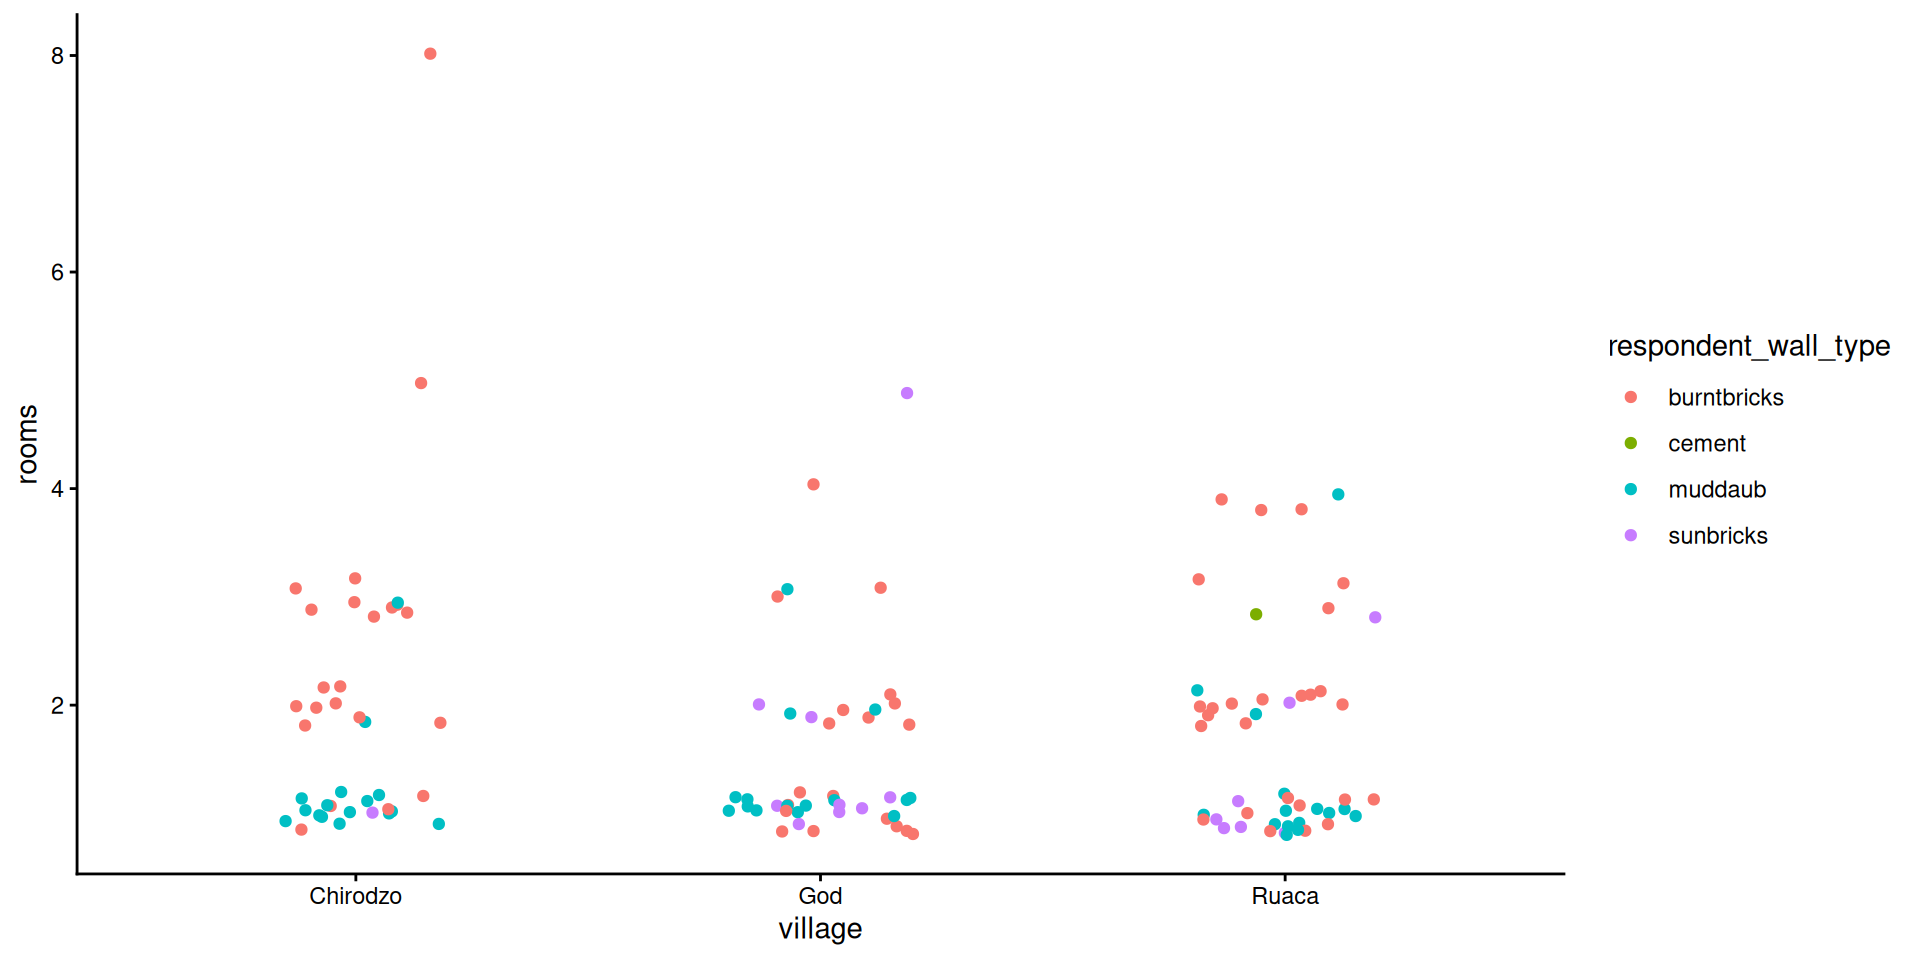
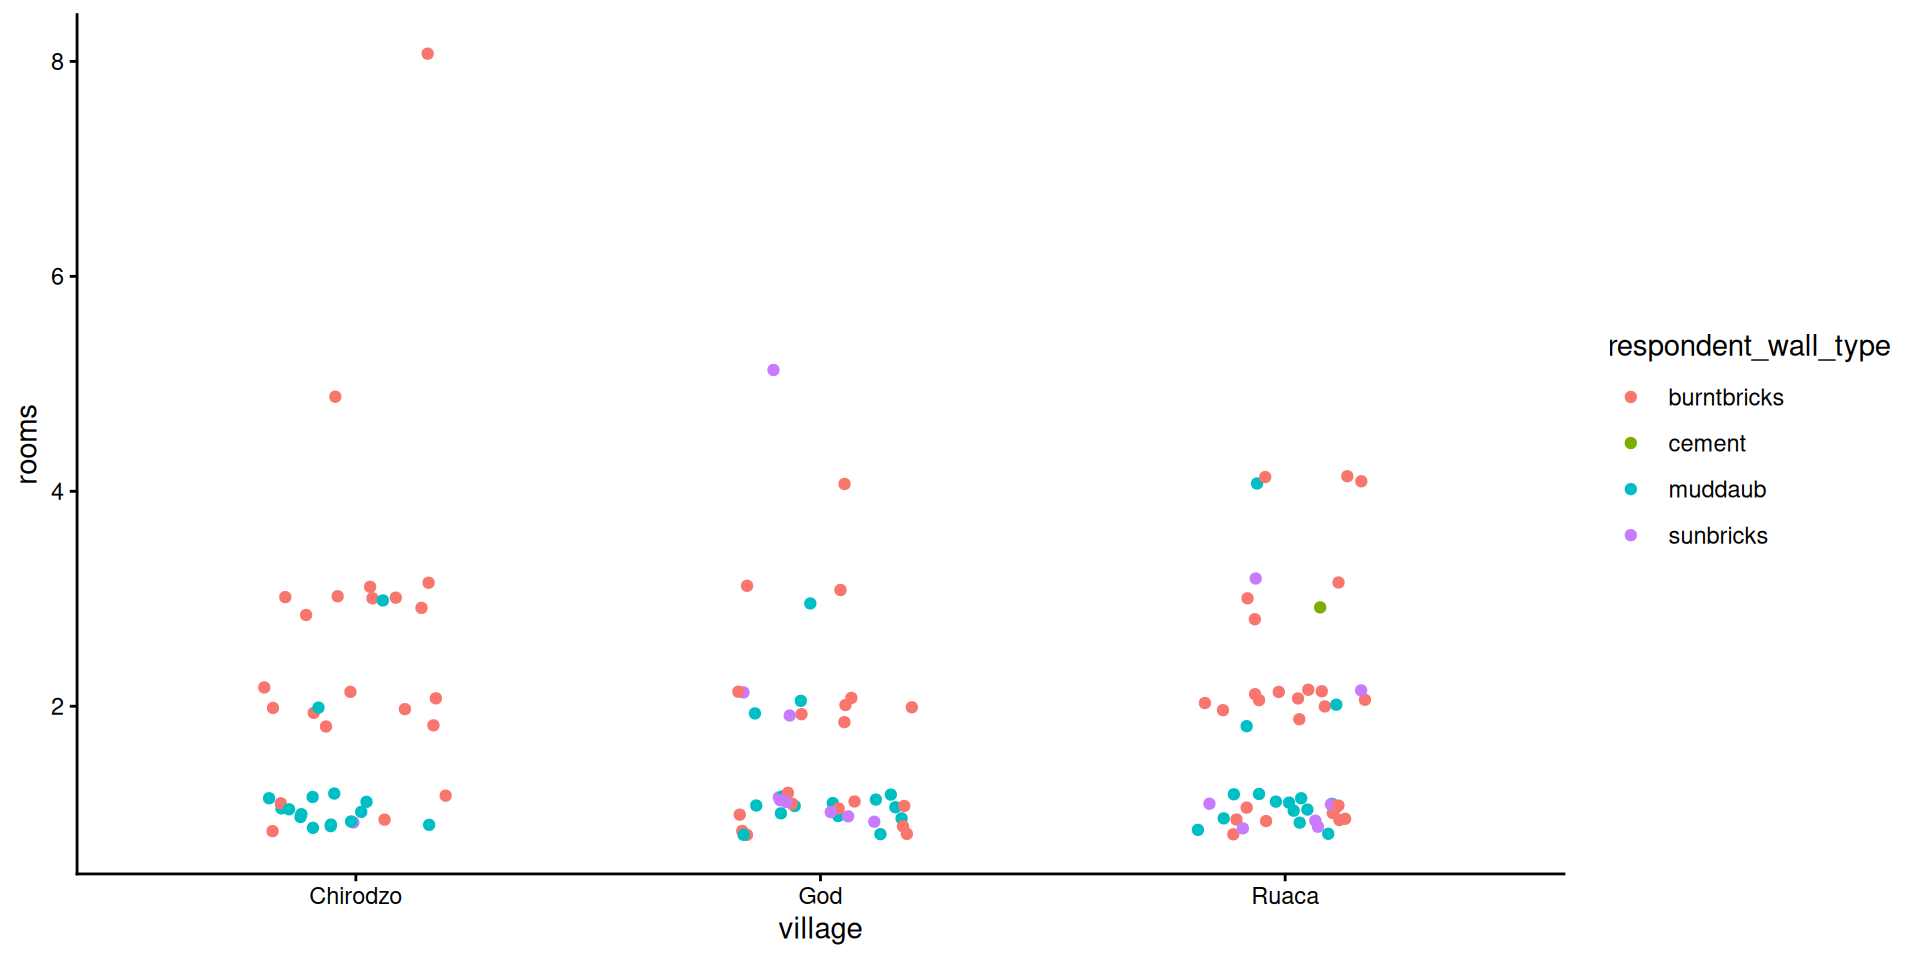
Built site for gh-pages

diff --git a/04_data-viz.html b/04_data-viz.html
@@ -352,7 +352,7 @@
 <p>Create a scatter plot of <code>rooms</code> by <code>village</code> with the <code>respondant_wall_type</code> showing in different colours.</p>
 <p>Does this seem like a good way to display the relationship between these variables?</p>
 <p>What other kinds of plots might you use to show this type of data?</p>
-<p></p><div class="countdown" id="timer_c0bdecb7" data-update-every="1" tabindex="0" style="right:0;bottom:0;"> <div class="countdown-controls"><button class="countdown-bump-down">−</button><button class="countdown-bump-up">+</button></div> <code class="countdown-time"><span class="countdown-digits minutes">06</span><span class="countdown-digits colon">:</span><span class="countdown-digits seconds">00</span></code> </div><p></p>
+<p></p><div class="countdown" id="timer_696ccc04" data-update-every="1" tabindex="0" style="right:0;bottom:0;"> <div class="countdown-controls"><button class="countdown-bump-down">−</button><button class="countdown-bump-up">+</button></div> <code class="countdown-time"><span class="countdown-digits minutes">06</span><span class="countdown-digits colon">:</span><span class="countdown-digits seconds">00</span></code> </div><p></p>
 </section>
 <section id="exercise-1-solution" class="slide level2 inverse smaller">
 <h2>Exercise 1: Solution</h2>
@@ -419,7 +419,7 @@ Figure&nbsp;1: This plot shows the relationship between the variables room and v
 <p>Boxplots are useful summaries, but hide the shape of the distribution. For example, if the distribution is bimodal, we would not see it in a boxplot.</p>
 <p>Replace the box plot with a violin plot<br>
 see <code>geom_violin()</code></p>
-<p></p><div class="countdown" id="timer_15cad90a" data-update-every="1" tabindex="0" style="right:0;bottom:0;"> <div class="countdown-controls"><button class="countdown-bump-down">−</button><button class="countdown-bump-up">+</button></div> <code class="countdown-time"><span class="countdown-digits minutes">04</span><span class="countdown-digits colon">:</span><span class="countdown-digits seconds">00</span></code> </div><p></p>
+<p></p><div class="countdown" id="timer_aacecd26" data-update-every="1" tabindex="0" style="right:0;bottom:0;"> <div class="countdown-controls"><button class="countdown-bump-down">−</button><button class="countdown-bump-up">+</button></div> <code class="countdown-time"><span class="countdown-digits minutes">04</span><span class="countdown-digits colon">:</span><span class="countdown-digits seconds">00</span></code> </div><p></p>
 </section>
 <section id="exercise-2-solution" class="slide level2 inverse">
 <h2>Exercise 2: Solution</h2>
@@ -437,7 +437,7 @@ see <code>geom_violin()</code></p>
 <p>Create a bar plot showing the proportion of respondents in each village who are or are not part of an irrigation association (<code>memb_assoc</code>).</p>
 <p>Include only respondents who answered that question in the calculations and plot.</p>
 <p>Which village had the lowest proportion of respondents in an irrigation association?</p>
-<p></p><div class="countdown" id="timer_2b0e26b3" data-update-every="1" tabindex="0" style="right:0;bottom:0;"> <div class="countdown-controls"><button class="countdown-bump-down">−</button><button class="countdown-bump-up">+</button></div> <code class="countdown-time"><span class="countdown-digits minutes">08</span><span class="countdown-digits colon">:</span><span class="countdown-digits seconds">00</span></code> </div><p></p>
+<p></p><div class="countdown" id="timer_b0bc03f6" data-update-every="1" tabindex="0" style="right:0;bottom:0;"> <div class="countdown-controls"><button class="countdown-bump-down">−</button><button class="countdown-bump-up">+</button></div> <code class="countdown-time"><span class="countdown-digits minutes">08</span><span class="countdown-digits colon">:</span><span class="countdown-digits seconds">00</span></code> </div><p></p>
 </section>
 <section id="exercise-3-1" class="slide level2 inverse smaller" data-auto-animate="true">
 <h2 data-id="quarto-animate-title">Exercise 3</h2>
@@ -445,7 +445,7 @@ see <code>geom_violin()</code></p>
 <p>Create a bar plot showing the proportion of respondents in each village who are or are not part of an irrigation association (<code>memb_assoc</code>).</p>
 <p>Include only respondents who answered that question in the calculations and plot.</p>
 <p>Which village had the lowest proportion of respondents in an irrigation association?</p>
-<p></p><div class="countdown" id="timer_95549582" data-update-every="1" tabindex="0" style="right:0;bottom:0;"> <div class="countdown-controls"><button class="countdown-bump-down">−</button><button class="countdown-bump-up">+</button></div> <code class="countdown-time"><span class="countdown-digits minutes">08</span><span class="countdown-digits colon">:</span><span class="countdown-digits seconds">00</span></code> </div><p></p>
+<p></p><div class="countdown" id="timer_1049e074" data-update-every="1" tabindex="0" style="right:0;bottom:0;"> <div class="countdown-controls"><button class="countdown-bump-down">−</button><button class="countdown-bump-up">+</button></div> <code class="countdown-time"><span class="countdown-digits minutes">08</span><span class="countdown-digits colon">:</span><span class="countdown-digits seconds">00</span></code> </div><p></p>
 <h3 id="hint">Hint</h3>
 <div class="cell">
 <div class="code-copy-outer-scaffold"><div class="sourceCode cell-code" id="cb10"><pre class="sourceCode numberSource r number-lines code-with-copy" data-id="quarto-animate-code"><code class="sourceCode r hljs"><span id="cb10-1" class="hljs-ln-code"><a></a>percent_memb_assoc <span class="ot">&lt;-</span> interviews_plotting <span class="sc">%&gt;%</span></span>
@@ -477,7 +477,7 @@ see <code>geom_violin()</code></p>
 <p>⏰ <strong>4 mins</strong></p>
 <p>Experiment with at least two different themes. Build the previous plot using each of those themes.</p>
 <p>Which do you like best?</p>
-<p></p><div class="countdown" id="timer_009e882c" data-update-every="1" tabindex="0" style="right:0;bottom:0;"> <div class="countdown-controls"><button class="countdown-bump-down">−</button><button class="countdown-bump-up">+</button></div> <code class="countdown-time"><span class="countdown-digits minutes">04</span><span class="countdown-digits colon">:</span><span class="countdown-digits seconds">00</span></code> </div><p></p>
+<p></p><div class="countdown" id="timer_e5d0d628" data-update-every="1" tabindex="0" style="right:0;bottom:0;"> <div class="countdown-controls"><button class="countdown-bump-down">−</button><button class="countdown-bump-up">+</button></div> <code class="countdown-time"><span class="countdown-digits minutes">04</span><span class="countdown-digits colon">:</span><span class="countdown-digits seconds">00</span></code> </div><p></p>
 <div class="fragment">
 <h3 id="hint-1">Hint</h3>
 <div class="columns">

diff --git a/05_quarto.html b/05_quarto.html
@@ -168,7 +168,7 @@
 <p>Play around with the different options in the chunk with the code for the table, and re-Render to see what each option does to the output.</p>
 <p>What happens if you use <code>eval: false</code> and <code>echo: false</code>?</p>
 <p>What is the difference between this and <code>include: false</code>?</p>
-<p></p><div class="countdown" id="timer_001d28ab" data-update-every="1" tabindex="0" style="right:0;bottom:0;"> <div class="countdown-controls"><button class="countdown-bump-down">−</button><button class="countdown-bump-up">+</button></div> <code class="countdown-time"><span class="countdown-digits minutes">04</span><span class="countdown-digits colon">:</span><span class="countdown-digits seconds">00</span></code> </div><p></p>
+<p></p><div class="countdown" id="timer_1d0c904d" data-update-every="1" tabindex="0" style="right:0;bottom:0;"> <div class="countdown-controls"><button class="countdown-bump-down">−</button><button class="countdown-bump-up">+</button></div> <code class="countdown-time"><span class="countdown-digits minutes">04</span><span class="countdown-digits colon">:</span><span class="countdown-digits seconds">00</span></code> </div><p></p>
 <div class="fragment">
 <h3 class="inverse" id="solution">Solution</h3>
 <p>Create a chunk with <code>eval: false, echo: false</code></p>
